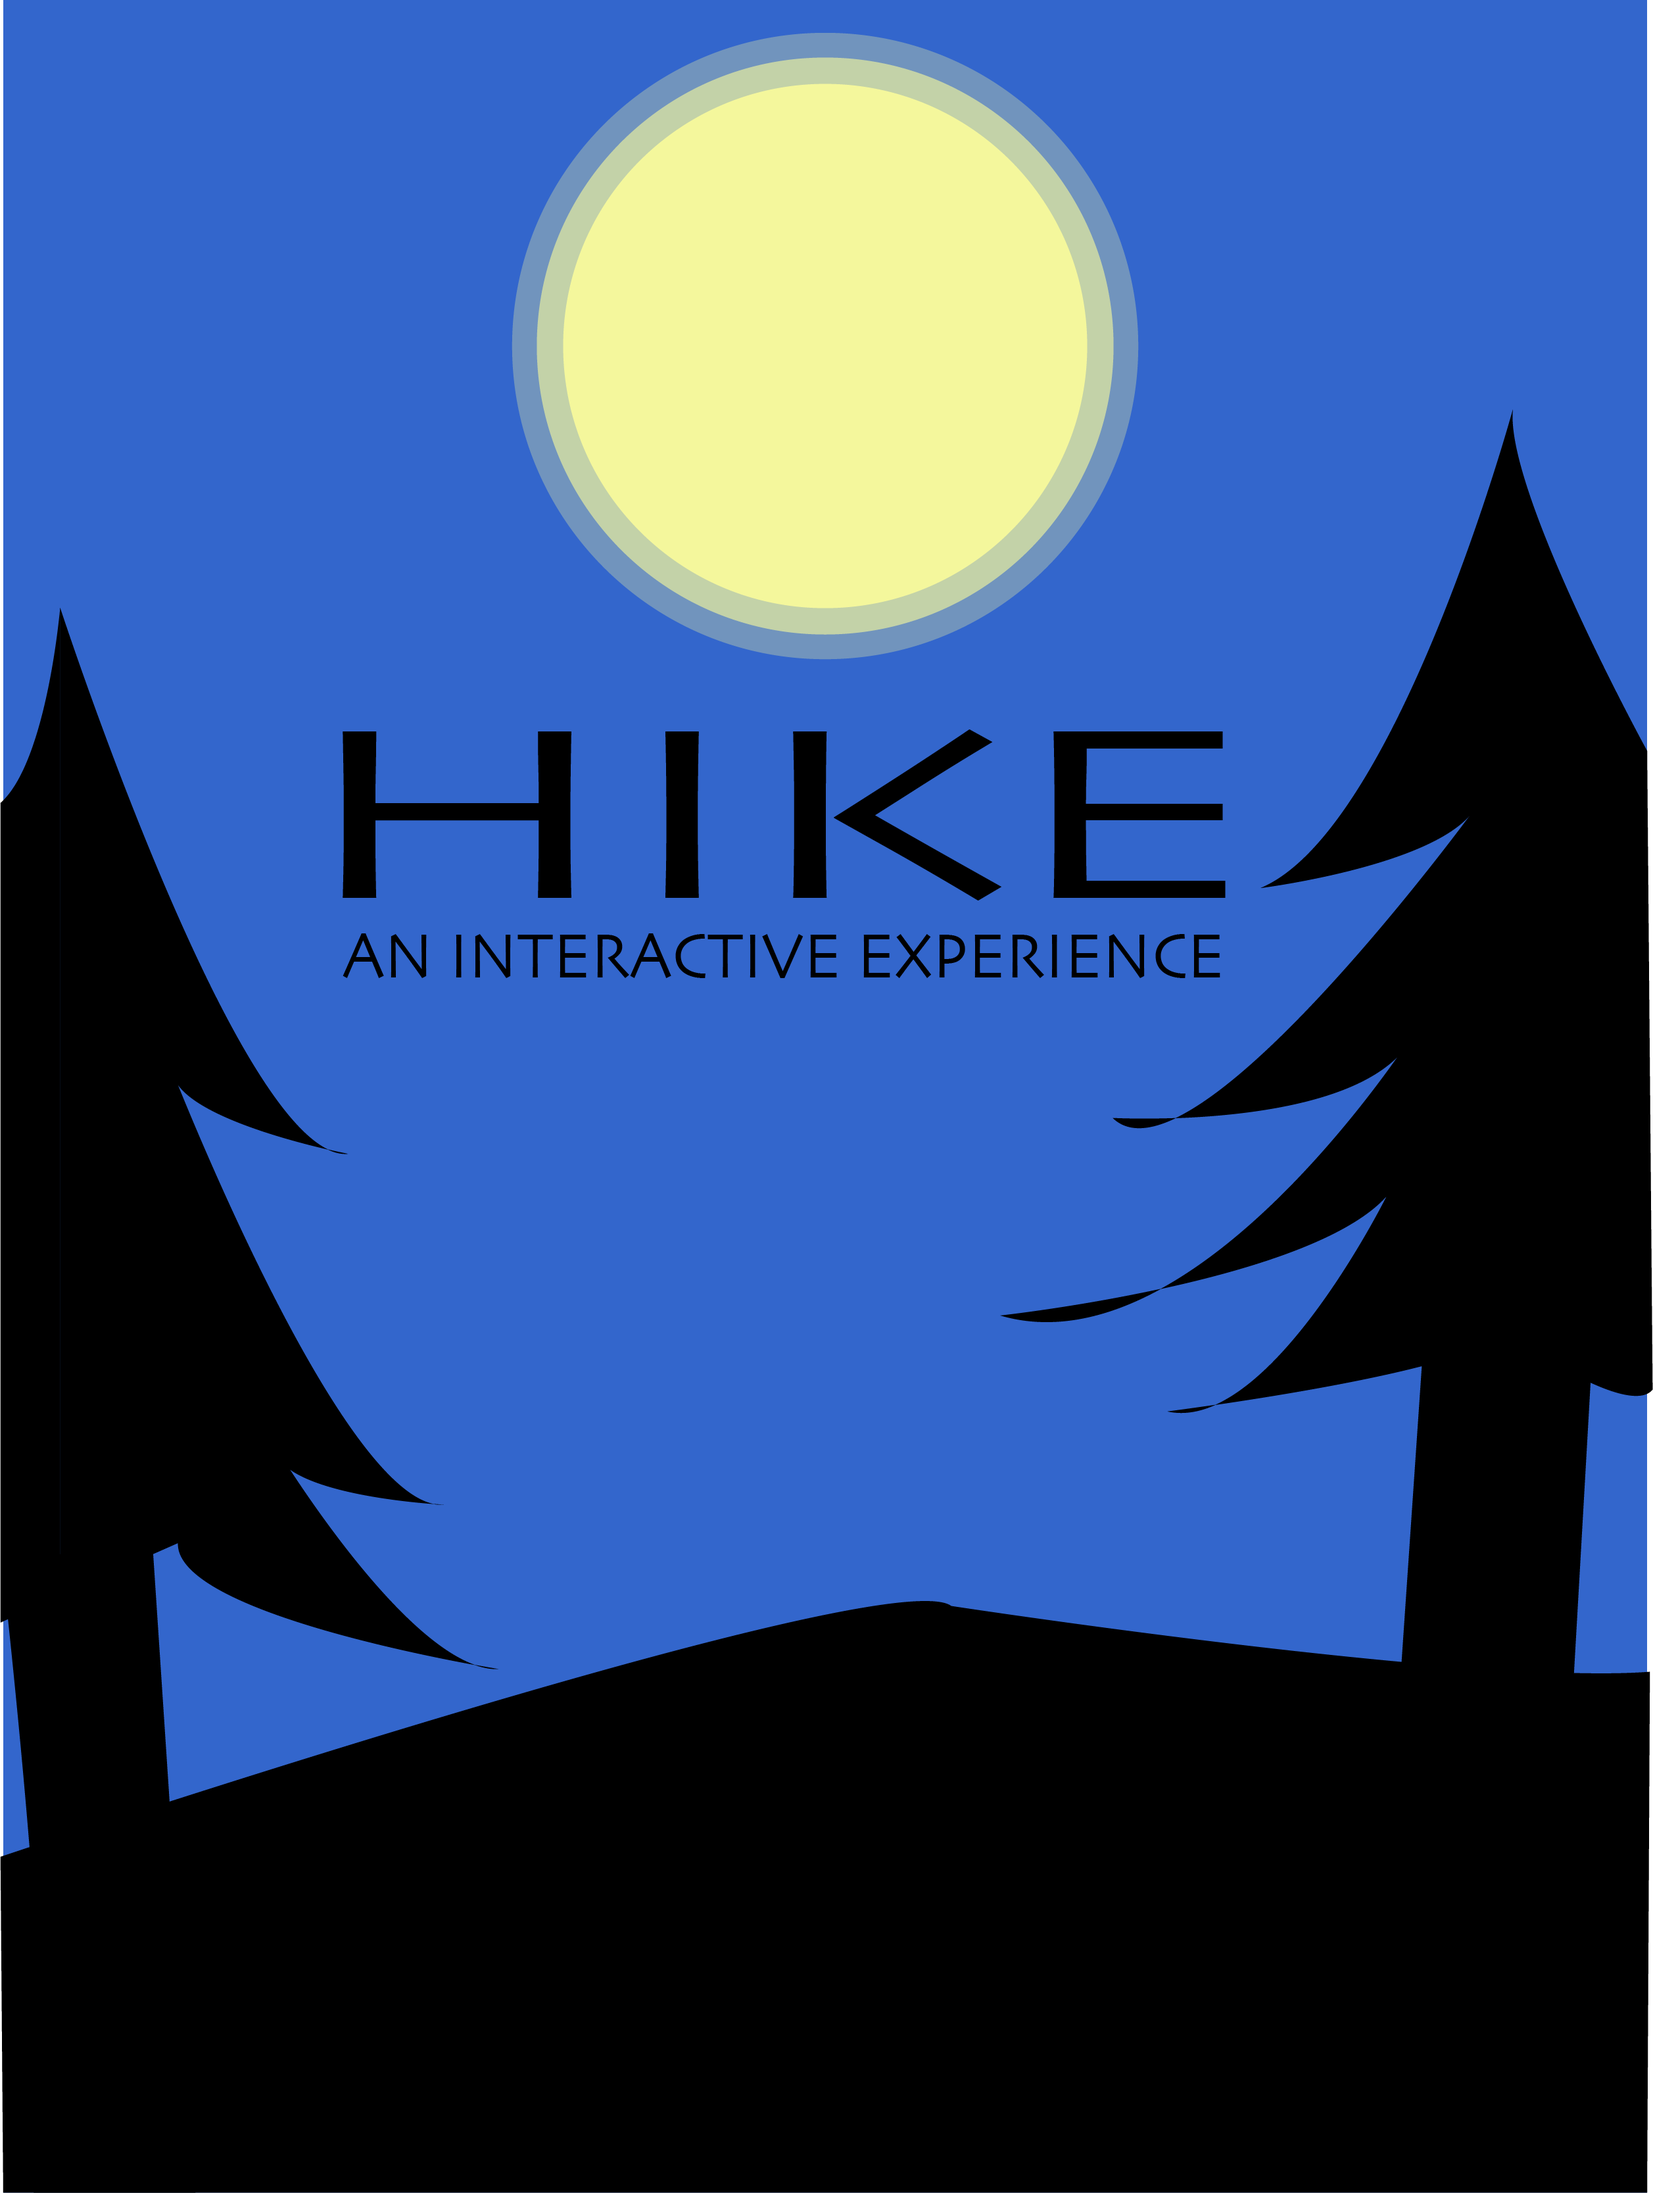
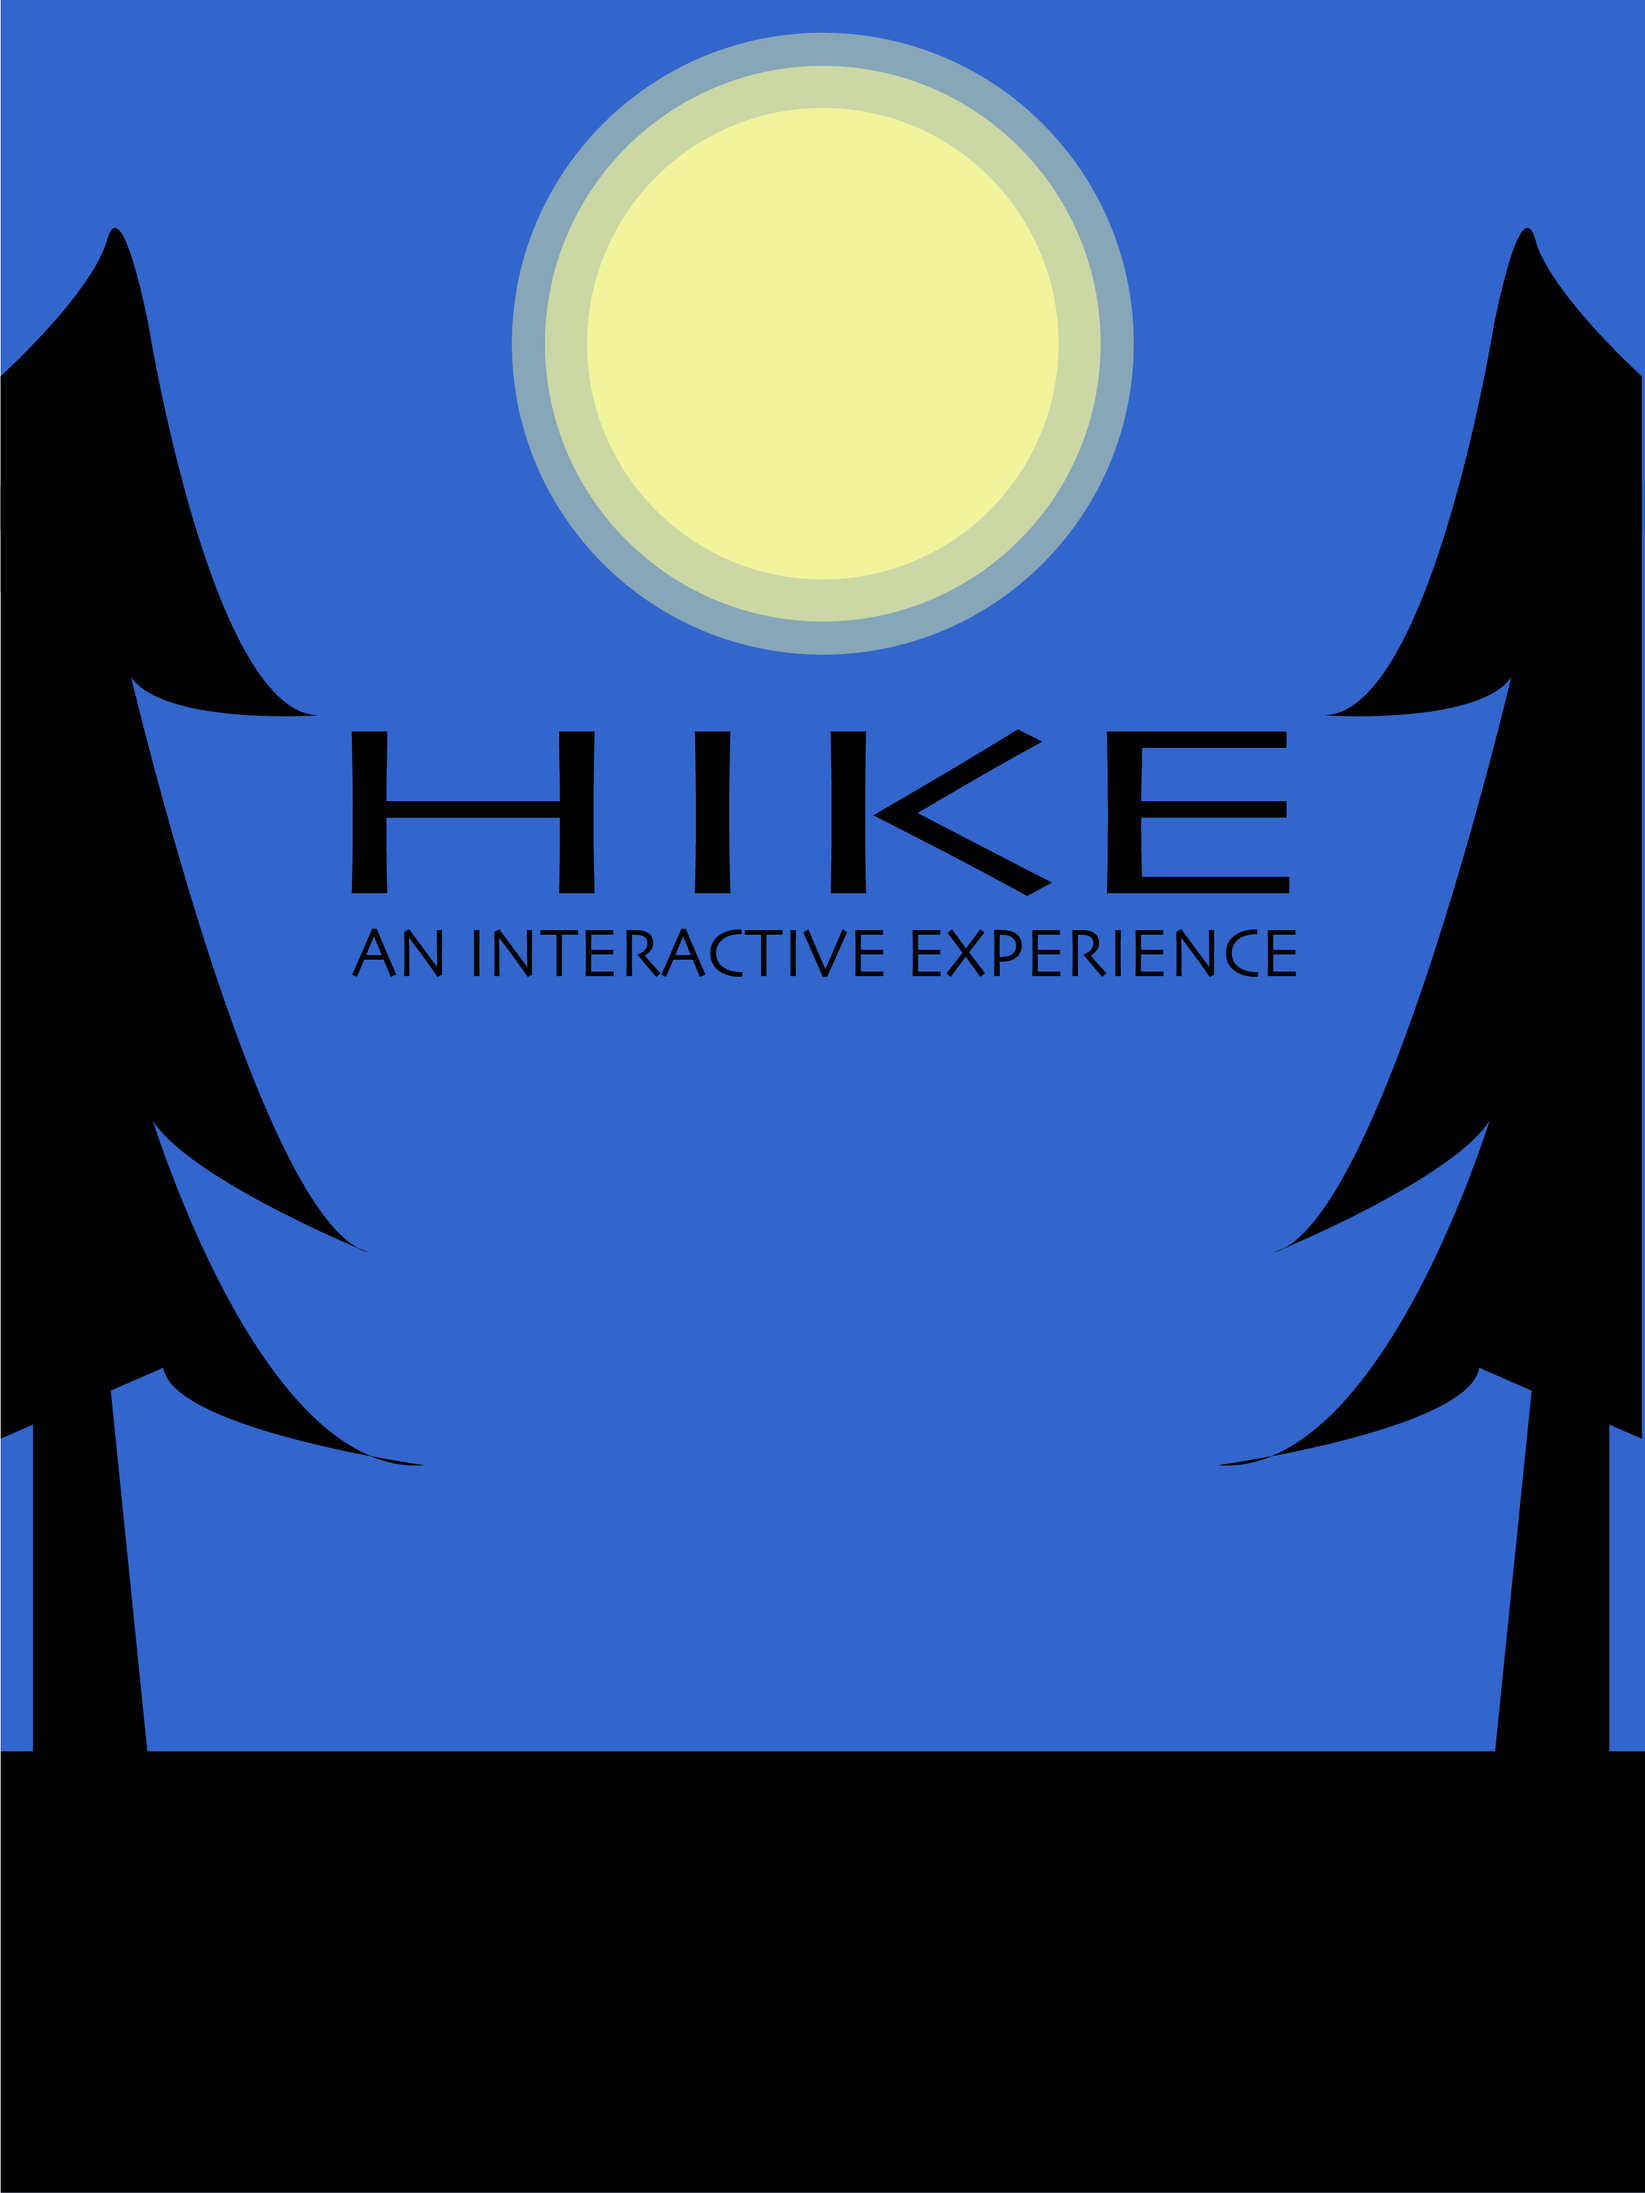
P1 Changed the Title Image, Added the readme file, completed finishing touches.

diff --git a/Projects/Project 1/js/script.js b/Projects/Project 1/js/script.js
@@ -7,7 +7,6 @@ Interactivity[DONE]
 TitleScreen [DONE]
 EndScreen [DONE]
 
-Idea:
 */
 
 //Background Colors
@@ -443,9 +442,9 @@ function simulation(){
   displayLandscape();
   displayLake();
   displayBridge();
-  displayRock();
   displayHiker();
   displayBridgerail();
+  displayRock();
   displayClouds();
   displayTree();
   displayMountains();

diff --git a/Projects/Project 1/README.md b/Projects/Project 1/README.md
@@ -1,3 +1,10 @@
-# Template p5 project
+Project 1 - Simulation
 
-This is the README file for the entire project. For more official projects you should write information here about the nature of the project, your name, any special explanations of how the project works, etc.
+Title: HIKE
+Author: Alex Cho
+
+I learned a lot when creating this project. The simulation/game is meant to be visual as well as interactive. Interactivity in the game includes mouse interaction, and keyboard input. The vision going into this was to make some type of Christmas game. However, I started playing around with the code, and one idea led to another and I ended up with this as the end result.
+
+The concept is to relax but still be alert. The game is meant to be easy. What I intended, was for the user to interact with the environment by pressing the buttons located on the right and enjoying the scenery. However, I also wanted them to pay attention to their surroundings. That is the purpose of the rocks. It relates to the idea of people who take selfies/pictures without realizing the possible dangers. How they put their lives at risk without realizing it.
+
+I am pretty happy with how the program turned out. I know my code is a little all over. Hopefully, I can make the code less repetitive and cleaner for future projects. I did not want to play around with it too much in case it would mess something up.
